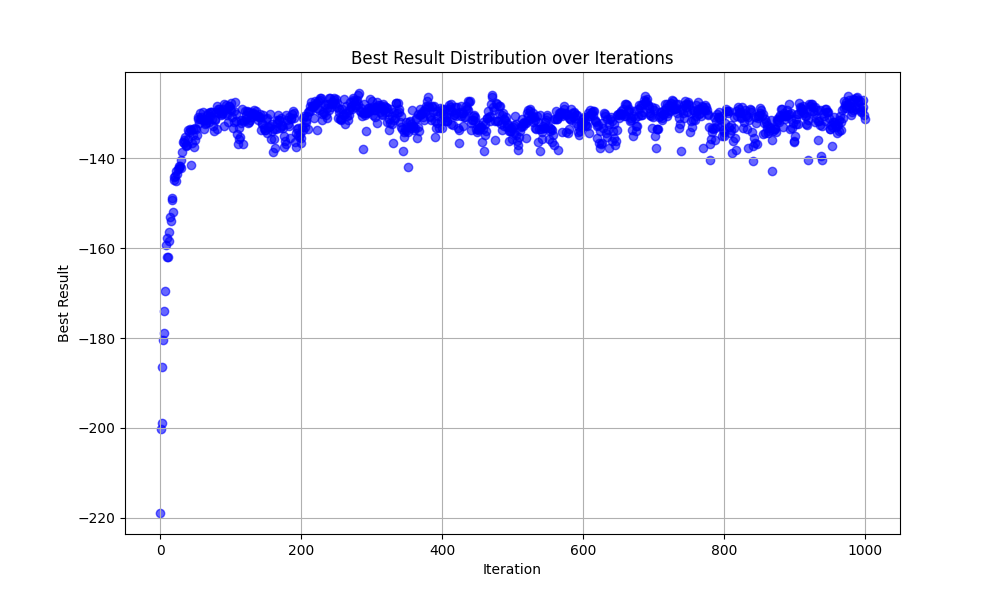
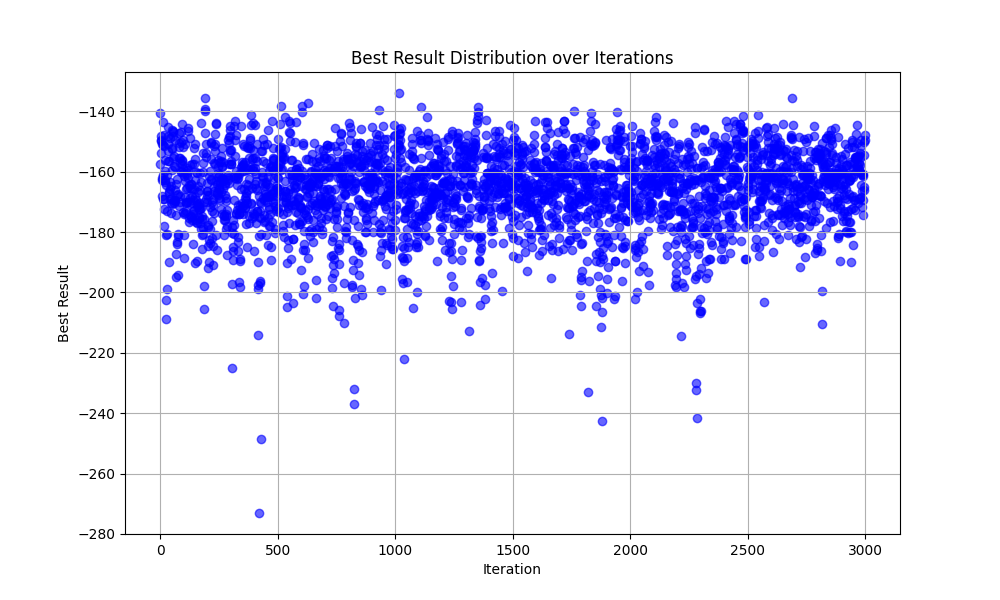
finished code of second homework

diff --git a/Zadanko_2_algorytm_genetyczny/classes.py b/Zadanko_2_algorytm_genetyczny/classes.py
@@ -10,7 +10,7 @@ class Solver():
         self.max_iterations = max_iterations
         self.best_individual = None
         self.best_result = None
-        self.history = []  # lista do przechowywania najlepszych wyników w każdej iteracji
+        self.history = []
 
     def solve(self):
         current_iteration = 0
@@ -20,15 +20,17 @@ class Solver():
 
         while current_iteration < self.max_iterations:
             #print(f'Iteration {current_iteration}, best result: {self.best_result}')
+            #results.sort()
+
 
             new_population = self.proportionate_selection(current_population, results, self.individual_amount)
             new_population = self.crossover_and_mutate(new_population)
             results = [self.evaluate(individual) for individual in new_population]
             best_new_individual, best_new_result = self.find_best_individual(new_population, results)
 
-            self.history.append(best_new_result)  # Zapisz najlepszy wynik do historii
+            self.history.append(best_new_result)
 
-            if best_new_result < self.best_result:
+            if best_new_result > self.best_result:
                 self.best_individual = best_new_individual
                 self.best_result = best_new_result
 
@@ -36,7 +38,6 @@ class Solver():
             current_iteration += 1
 
     def plot_results(self):
-        # Wykres rozkładu wyników w każdej iteracji
         plt.figure(figsize=(10, 6))
         plt.scatter(range(len(self.history)), self.history, color="blue", alpha=0.6)
         plt.xlabel("Iteration")
@@ -47,23 +48,25 @@ class Solver():
         plt.show()
 
     def proportionate_selection(self, population, results, amount):
-        min_value = abs(np.min(results))
-        scaled_results = [result + min_value for result in results]
-        scaled_results_sum = sum(scaled_results)
+        min_result = np.min(results)
+        offset = -min_result + 1e-6
+        fitness = [result + offset for result in results]
+        fitness_sum = sum(fitness)
 
-        if scaled_results_sum == 0:
-            probabilities = [1 / len(scaled_results) for _ in scaled_results]
+        if fitness_sum == 0:
+            probabilities = [1 / len(fitness) for _ in fitness]
         else:
-            probabilities = [result / scaled_results_sum for result in scaled_results]
+            probabilities = [f / fitness_sum for f in fitness]
 
         cumulative_probabilities = np.cumsum(probabilities)
 
         new_population = []
-        for i in range(amount):
+        for _ in range(amount):
             random_value = np.random.rand()
             chosen_individual_index = np.where(cumulative_probabilities > random_value)[0][0]
             new_population.append(population[chosen_individual_index])
         return new_population
+
 
 
     def crossover_and_mutate(self, population):
@@ -97,7 +100,7 @@ class Solver():
 
 
     def find_best_individual(self, population, results):
-        best_index = np.argmin(results)
+        best_index = np.argmax(results)
         return population[best_index], results[best_index]
 
 

diff --git a/Zadanko_2_algorytm_genetyczny/main.py b/Zadanko_2_algorytm_genetyczny/main.py
@@ -1,11 +1,37 @@
 from classes import Solver
 import numpy as np
 
+def test_solver(amount_of_tests, population_size, mutation_probability, crossover_probability, max_iterations):
+    results = []
+    for i in range(amount_of_tests):
+        start_population = np.random.randint(0, 2, (population_size, 200))
+        solver = Solver(start_population, population_size, mutation_probability, crossover_probability, max_iterations)
+        solver.solve()
+        results.append(solver.best_result)
+    return results
+
+def plot_group_results(results):
+    import matplotlib.pyplot as plt
+    print(max(results))
+    plt.figure(figsize=(10, 6))
+    plt.scatter(range(len(results)), results, color="blue", alpha=0.6)
+    plt.xlabel("Test number")
+    plt.ylabel("Best Result")
+    plt.title("Best Result Distribution over Tests")
+    plt.grid(True)
+    plt.savefig("results.png")
+    plt.show()
+
 if __name__ == '__main__':
     start_population = np.random.randint(0, 2, (25, 200))
+    #start_population = np.ones((25, 200), dtype=int)
     # populacja startowa, ilość osobników, prawdopodobieństwo mutacji, prawdopodobieństwo krzyżowania, ilość iteracji
-    solver = Solver(start_population, 25, 0.01, 0.6, 1000)
+    solver = Solver(start_population, 25, 0.1, 0.1, 3000)
     solver.solve()
     print(solver.best_individual)
     print(solver.best_result)
     solver.plot_results()
+
+    #liczba testów, ilość osobników, prawdopodobieństwo mutacji, prawdopodobieństwo krzyżowania, ilość iteracji
+    # results = test_solver(25, 25, 0.0015, 0.1, 1000)
+    # plot_group_results(results)
